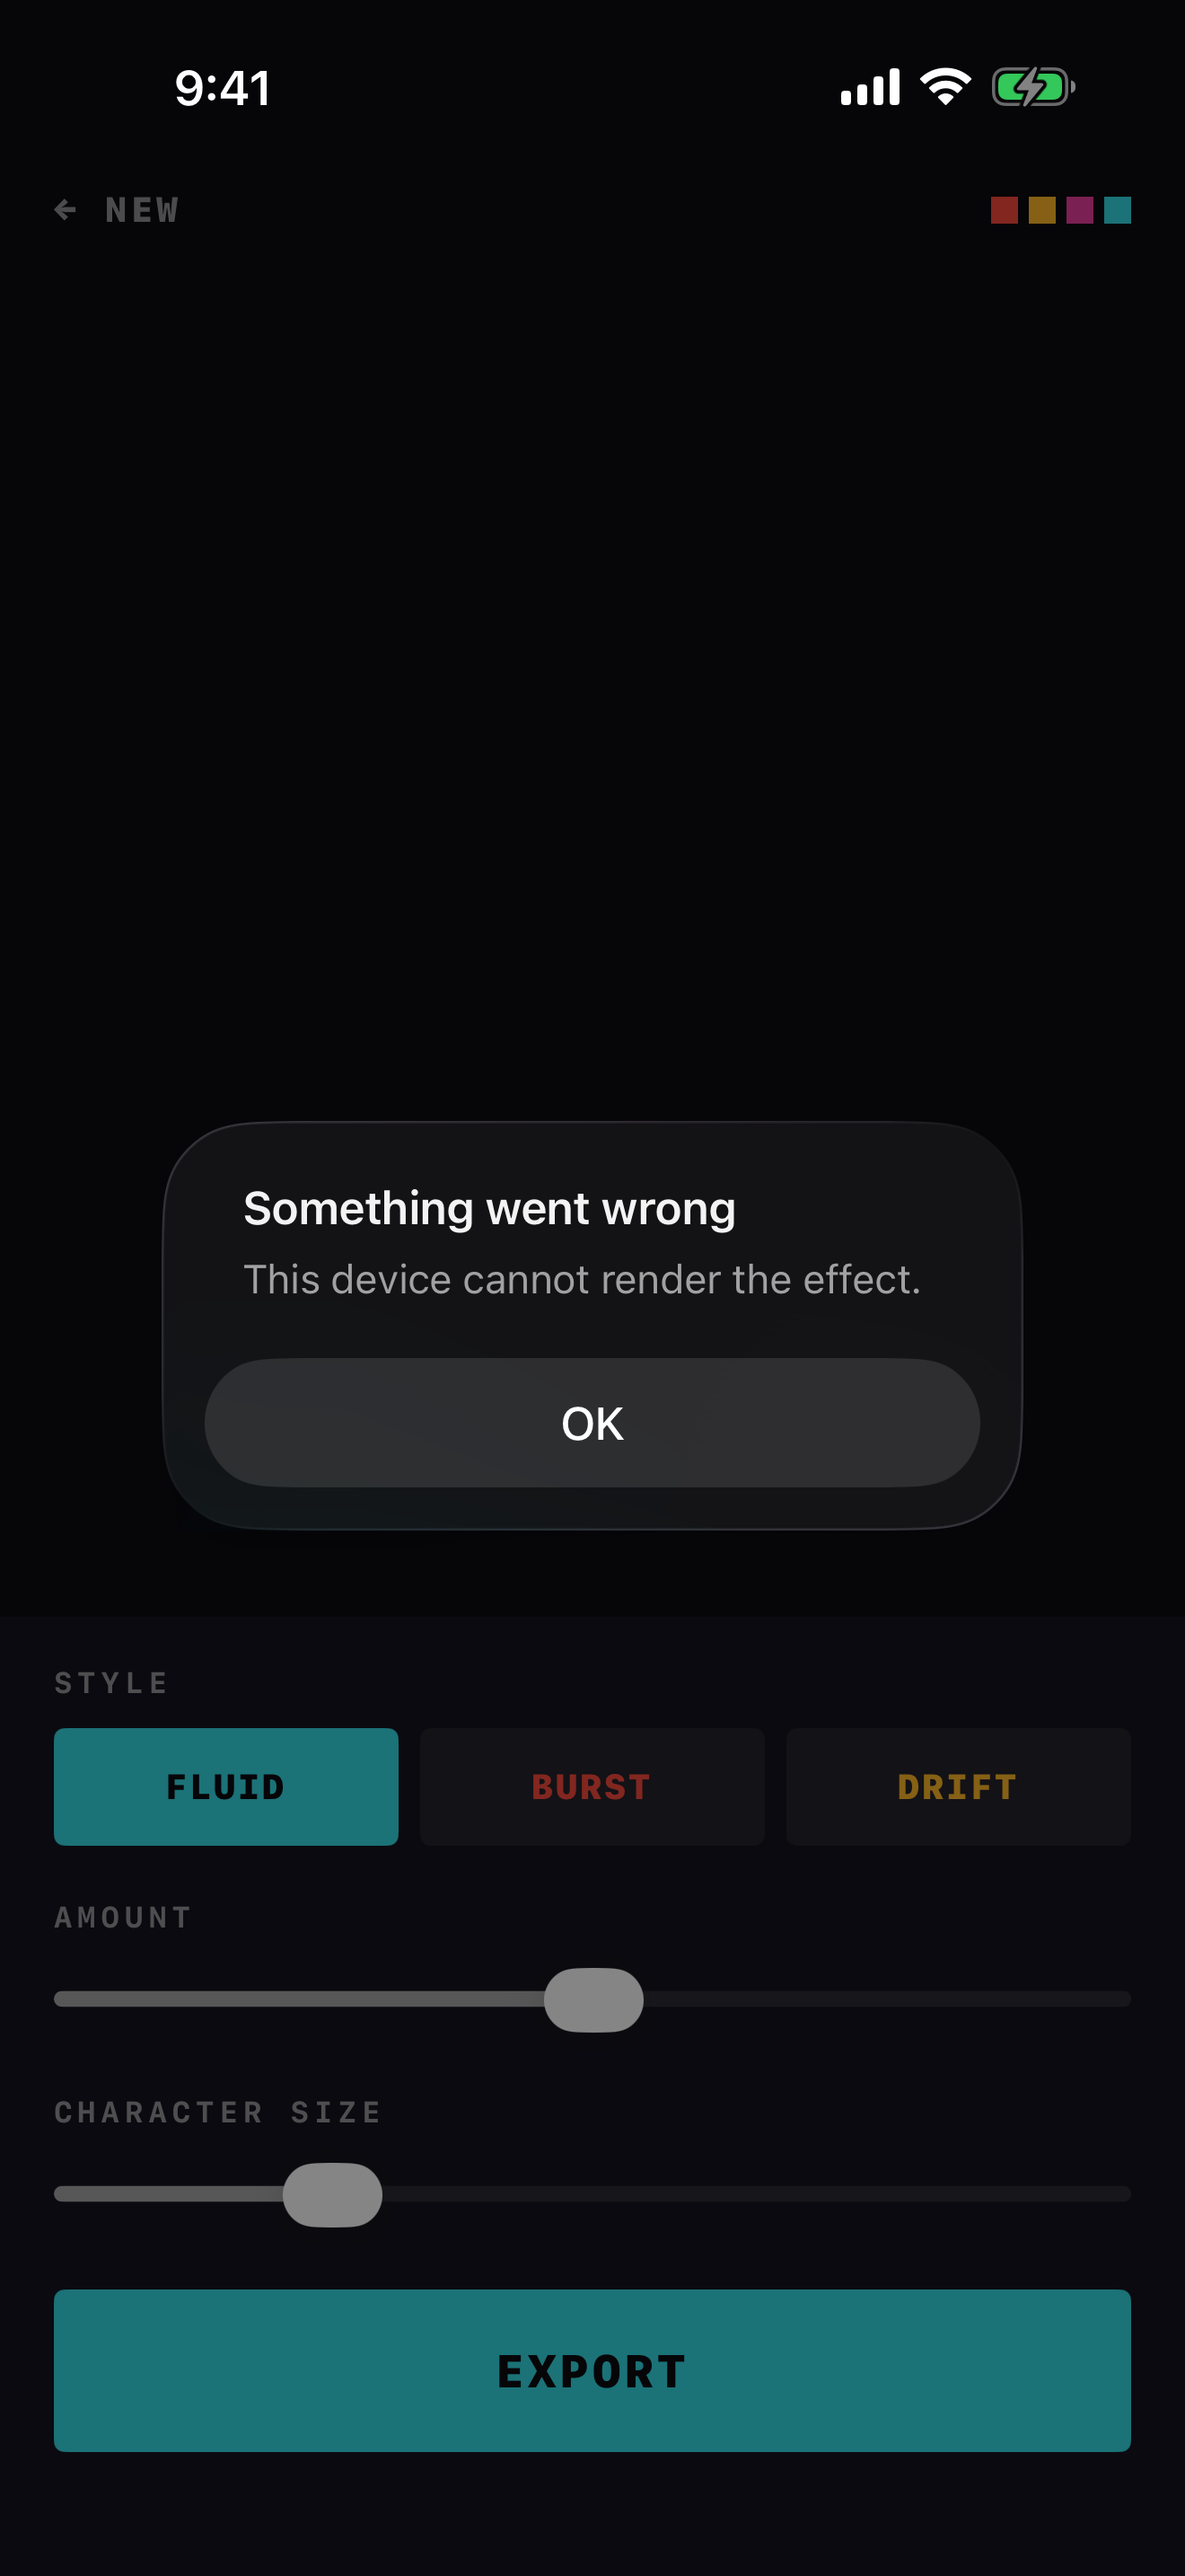
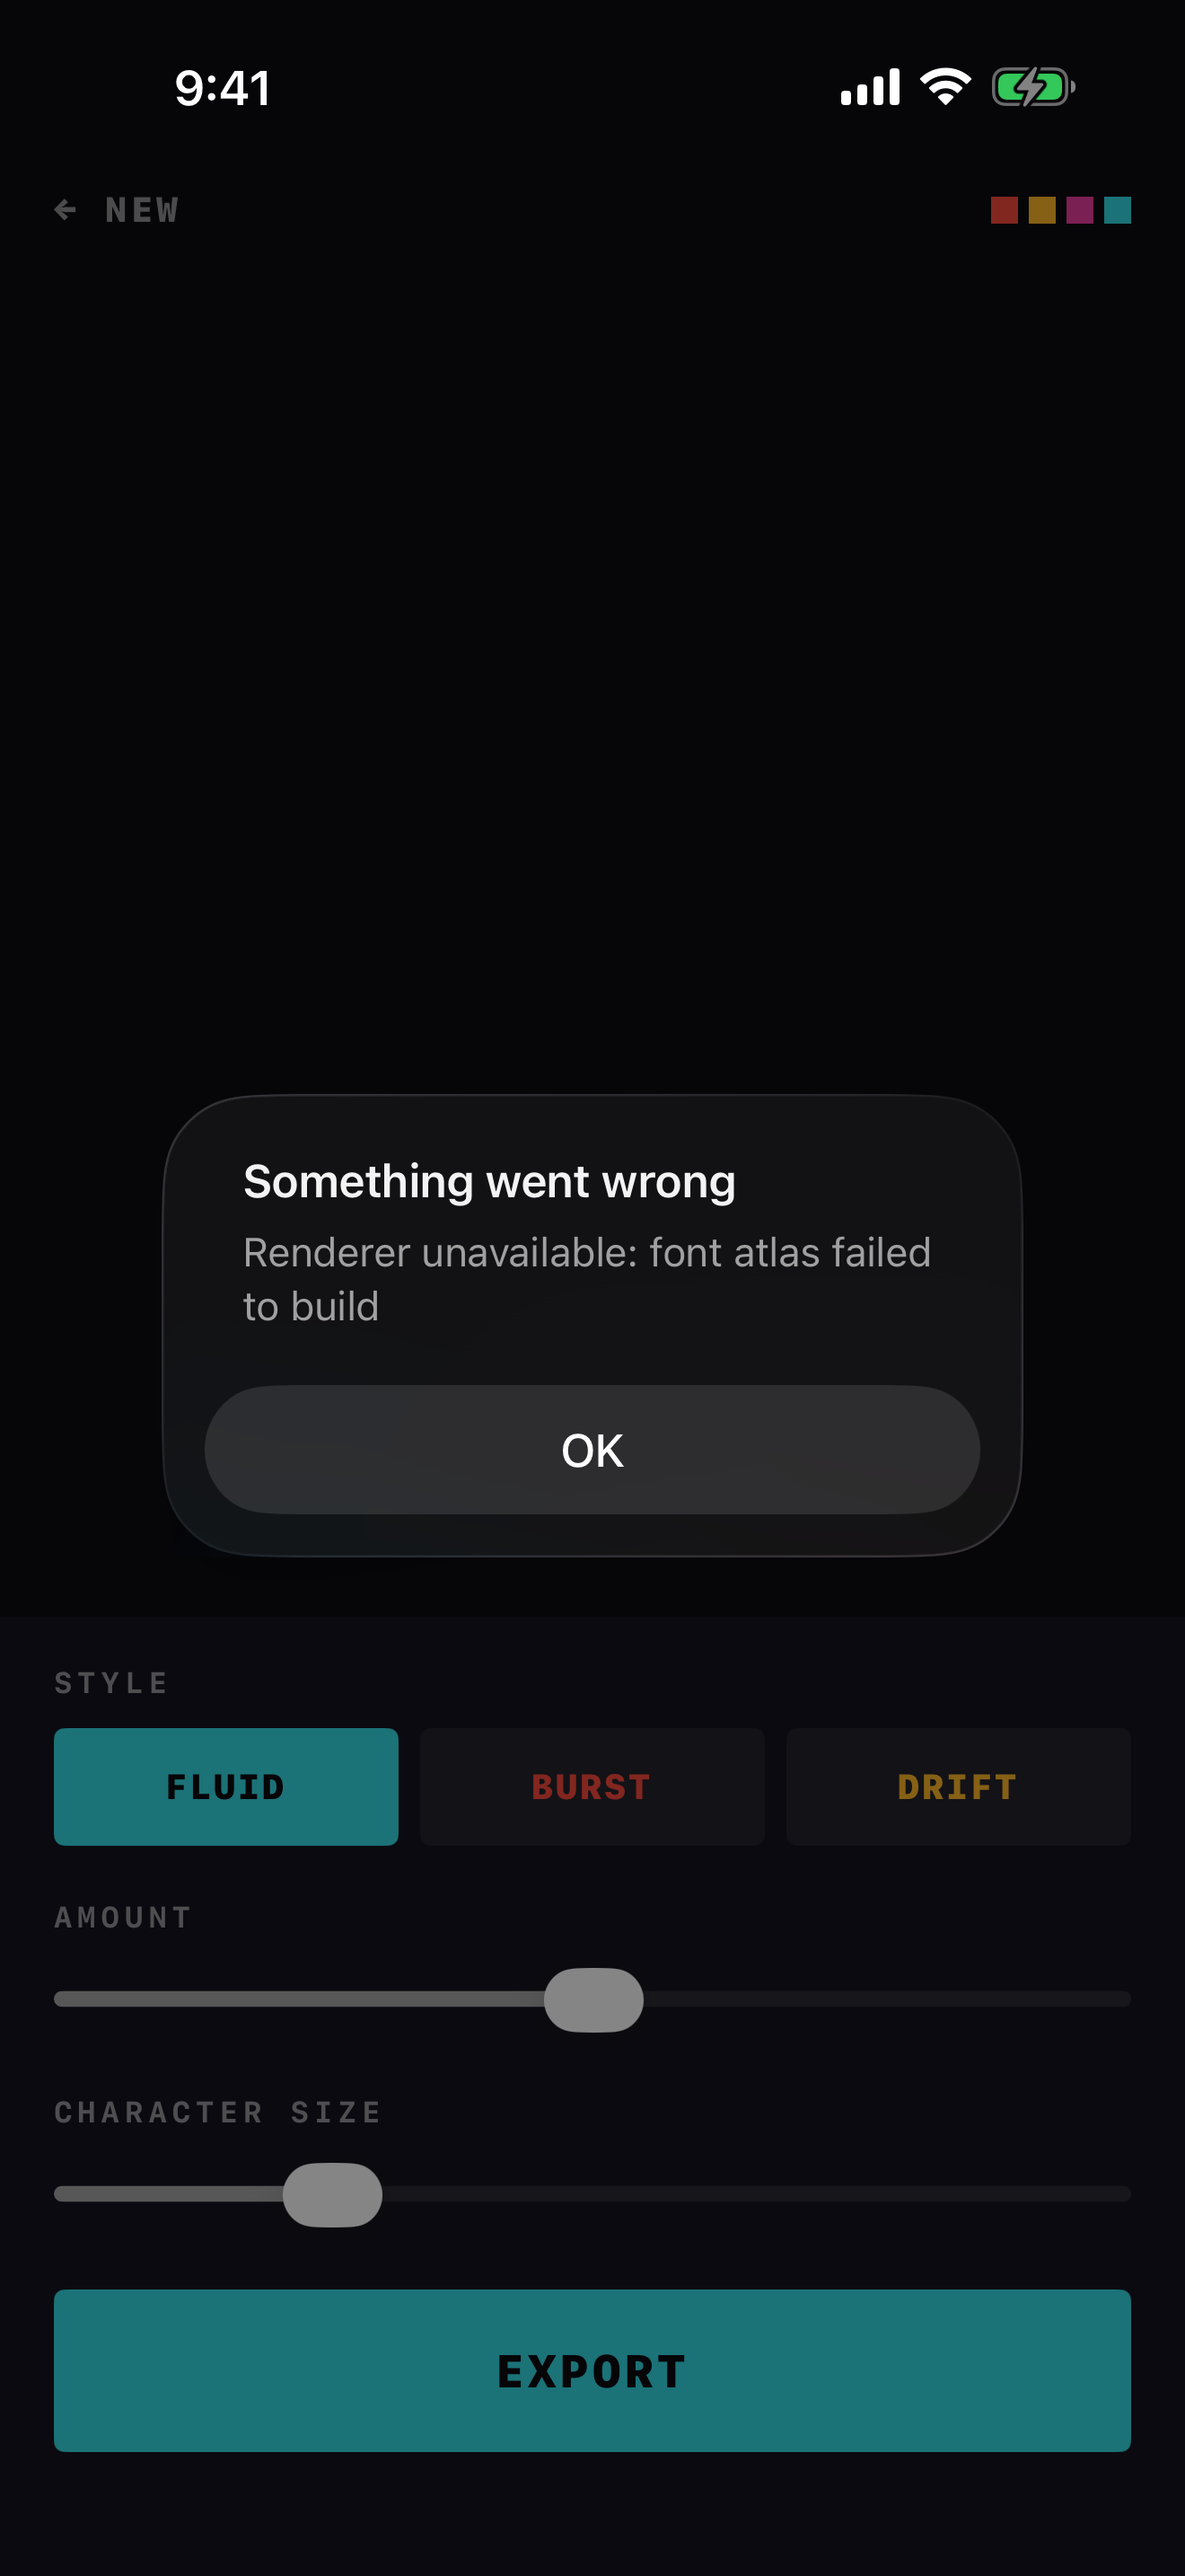
Build the font atlas without MTKTextureLoader
The loader failed on the simulator and reported nothing but nil. It negotiates
pixel format and storage mode on your behalf, and .private storage is not
reliably supported there.

Drawn into a known RGBA8 buffer and copied into a shared texture by hand
instead: twenty more lines, one behaviour everywhere. The CGContext flip is
needed because its origin is bottom left while UIKit text drawing assumes top
left.

Claude-Session: https://claude.ai/code/session_01VXPdxMbsVPGofWZELfPevi

Changed region(s): [[0.1553, 0.4344, 0.8697, 0.5896]]

diff --git a/Sources/Engine/FontAtlas.swift b/Sources/Engine/FontAtlas.swift
@@ -58,29 +58,51 @@ final class FontAtlas {
         let n = Ramp.count
         let cols = 8
         let rows = Int(ceil(Double(n) / Double(cols)))
-        let cell = FontAtlas.cellPixels
+        let cell = Int(FontAtlas.cellPixels)
+        let width = cell * cols
+        let height = cell * rows
 
-        let size = CGSize(width: cell * CGFloat(cols), height: cell * CGFloat(rows))
-        let format = UIGraphicsImageRendererFormat.default()
-        format.scale = 1
-        format.opaque = false
-        let renderer = UIGraphicsImageRenderer(size: size, format: format)
+        // Drawn into a byte buffer and uploaded by hand rather than going
+        // through MTKTextureLoader.
+        //
+        // The loader version failed on the simulator and reported nothing but
+        // nil, which cost a full screenshot cycle to even locate. It negotiates
+        // pixel formats and storage modes on your behalf, and `.private`
+        // storage in particular is not reliably supported there. Doing it
+        // manually is twenty more lines and has exactly one behaviour on every
+        // device: a known RGBA8 buffer, copied into a shared texture.
+        let bytesPerRow = width * 4
+        var pixels = [UInt8](repeating: 0, count: bytesPerRow * height)
 
-        // A monospace face, so every cell is filled the same way and the grid
-        // does not wobble. The system monospaced font is guaranteed present,
-        // which a bundled font file would not be without shipping it.
-        let font = UIFont.monospacedSystemFont(ofSize: cell * 0.78, weight: .medium)
+        let font = UIFont.monospacedSystemFont(ofSize: FontAtlas.cellPixels * 0.78, weight: .medium)
+        let attributes: [NSAttributedString.Key: Any] = [
+            .font: font,
+            // White, so the fragment shader can tint it to any colour by
+            // multiplying. A coloured atlas could only ever be one palette.
+            .foregroundColor: UIColor.white,
+        ]
 
-        let image = renderer.image { ctx in
-            ctx.cgContext.setFillColor(UIColor.clear.cgColor)
-            ctx.cgContext.fill(CGRect(origin: .zero, size: size))
+        let drew: Bool = pixels.withUnsafeMutableBytes { raw -> Bool in
+            guard let base = raw.baseAddress,
+                  let ctx = CGContext(
+                      data: base,
+                      width: width,
+                      height: height,
+                      bitsPerComponent: 8,
+                      bytesPerRow: bytesPerRow,
+                      space: CGColorSpaceCreateDeviceRGB(),
+                      bitmapInfo: CGImageAlphaInfo.premultipliedLast.rawValue
+                  )
+            else { return false }
 
-            let attributes: [NSAttributedString.Key: Any] = [
-                .font: font,
-                // White, so the fragment shader can tint it to any colour by
-                // multiplying. A coloured atlas could only ever be one palette.
-                .foregroundColor: UIColor.white,
-            ]
+            // A CGContext has its origin at the bottom left and UIKit text
+            // drawing assumes the top left, so without this flip every glyph
+            // renders upside down.
+            ctx.translateBy(x: 0, y: CGFloat(height))
+            ctx.scaleBy(x: 1, y: -1)
+
+            UIGraphicsPushContext(ctx)
+            defer { UIGraphicsPopContext() }
 
             for (i, ch) in Ramp.characters.enumerated() {
                 let col = i % cols
@@ -88,26 +110,36 @@ final class FontAtlas {
                 let s = String(ch)
                 let bounds = s.size(withAttributes: attributes)
                 // Centred in its cell, so a glyph's drawn position is its
-                // centre and the physics can rotate or scale around it without
-                // the character sliding off its own anchor.
+                // centre and the physics can move it without the character
+                // sliding off its own anchor.
                 let origin = CGPoint(
-                    x: CGFloat(col) * cell + (cell - bounds.width) / 2,
-                    y: CGFloat(row) * cell + (cell - bounds.height) / 2
+                    x: CGFloat(col) * FontAtlas.cellPixels + (FontAtlas.cellPixels - bounds.width) / 2,
+                    y: CGFloat(row) * FontAtlas.cellPixels + (FontAtlas.cellPixels - bounds.height) / 2
                 )
                 s.draw(at: origin, withAttributes: attributes)
             }
+            return true
         }
+        guard drew else { return nil }
 
-        guard let cgImage = image.cgImage else { return nil }
+        let descriptor = MTLTextureDescriptor.texture2DDescriptor(
+            pixelFormat: .rgba8Unorm,
+            width: width,
+            height: height,
+            mipmapped: false
+        )
+        descriptor.usage = .shaderRead
+        descriptor.storageMode = .shared
+        guard let tex = device.makeTexture(descriptor: descriptor) else { return nil }
 
-        let loader = MTKTextureLoader(device: device)
-        let options: [MTKTextureLoader.Option: Any] = [
-            .SRGB: false,
-            .textureUsage: NSNumber(value: MTLTextureUsage.shaderRead.rawValue),
-            .textureStorageMode: NSNumber(value: MTLStorageMode.private.rawValue),
-        ]
-        guard let tex = try? loader.newTexture(cgImage: cgImage, options: options) else {
-            return nil
+        pixels.withUnsafeBytes { raw in
+            guard let base = raw.baseAddress else { return }
+            tex.replace(
+                region: MTLRegionMake2D(0, 0, width, height),
+                mipmapLevel: 0,
+                withBytes: base,
+                bytesPerRow: bytesPerRow
+            )
         }
 
         self.texture = tex
